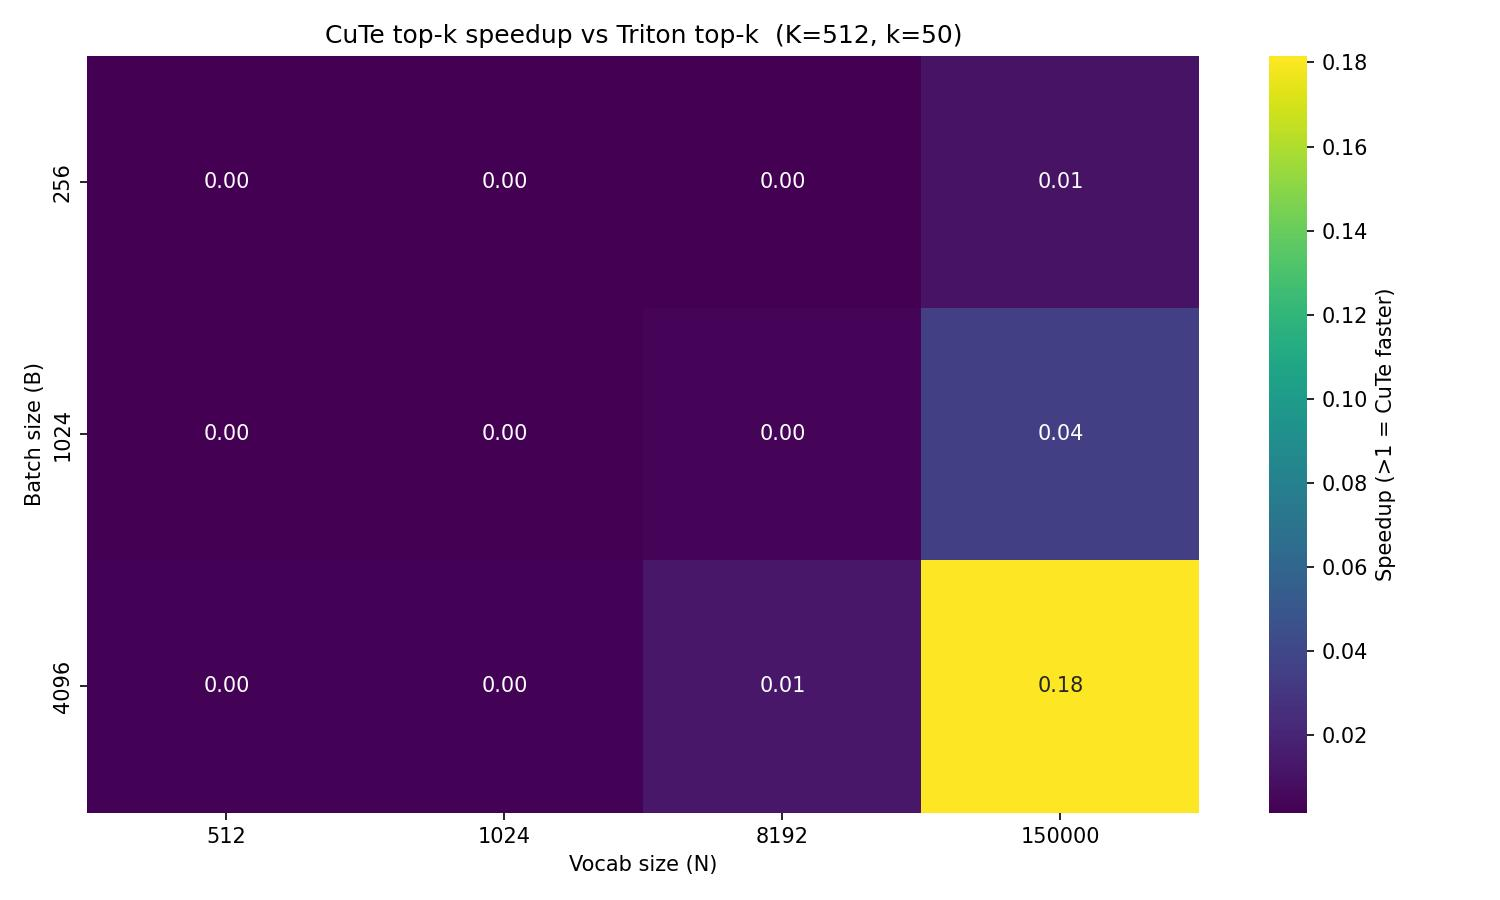
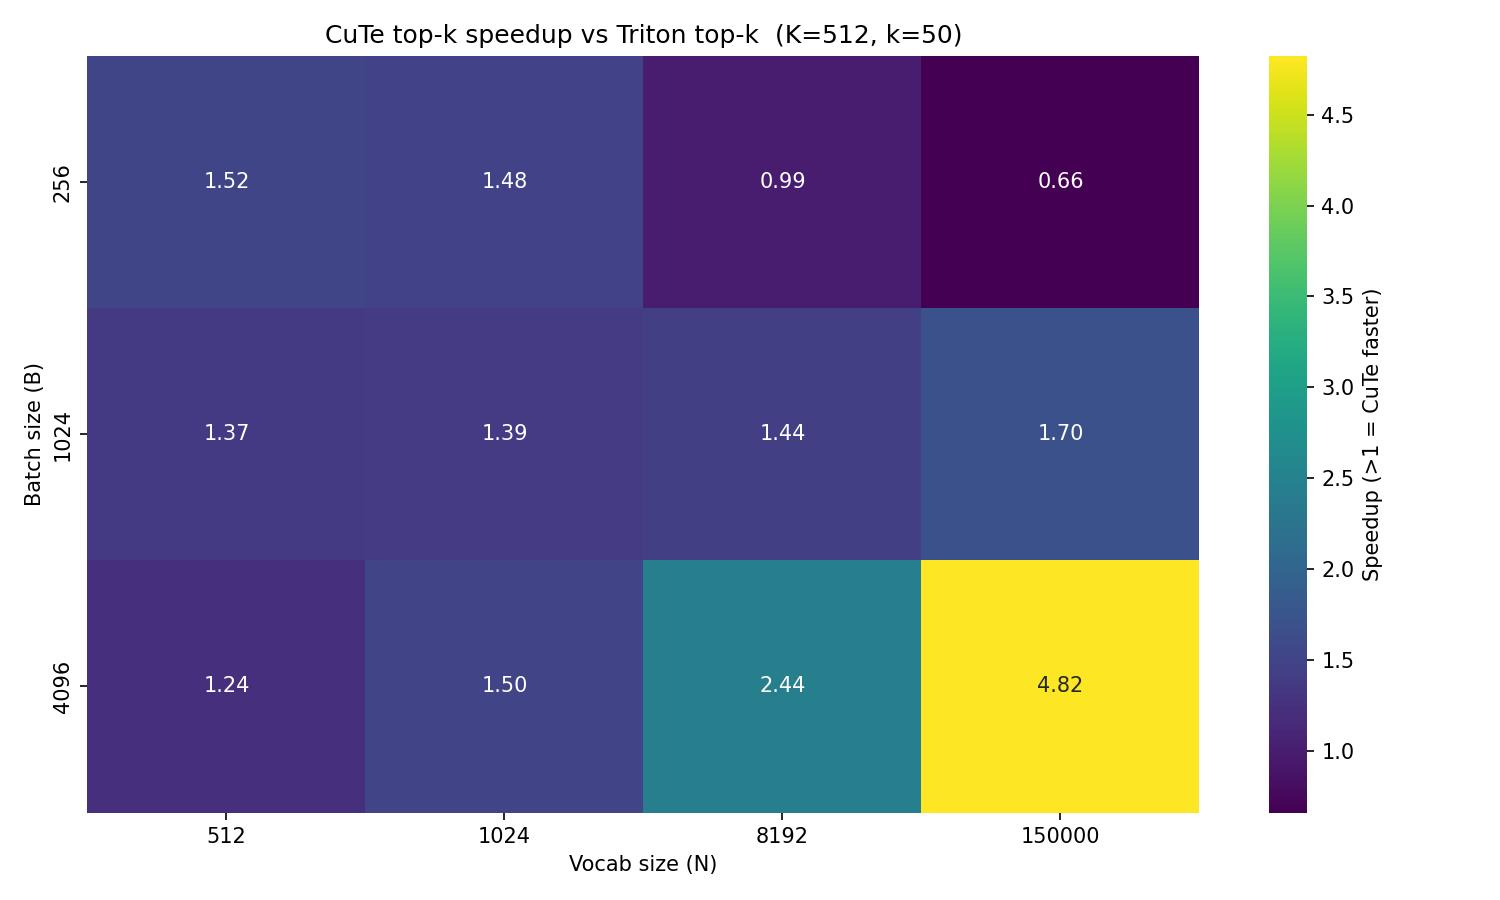
Fix cute kernel

diff --git a/rectokens/kernels/constrained_node_transition_cute.py b/rectokens/kernels/constrained_node_transition_cute.py
@@ -5,79 +5,109 @@ Reimplements ``_fused_linear_constrained_node_transition_topk_op`` using
 NVIDIA's CuTe DSL (CUTLASS 4.x Python DSL) instead of Triton.
 
 The kernel fuses:
-  1. Sparse linear projection — dot products computed only for valid
-     (trie-constrained) token columns.
+  1. Sparse linear projection — dot products for valid (trie-constrained) columns.
   2. CSR trie traversal — next-node and valid-index extraction.
-  3. Per-branch logit materialization into a compact ``[B, max_branches]``
-     buffer that is then fed to ``torch.topk`` on the host.
+  3. Per-branch logit materialization into a compact ``[B, max_branches]`` buffer.
 
 Parallelism strategy
 --------------------
 Block layout: ``(WARP_SIZE=32, BLOCK_B=4, 1)`` — 128 threads total.
+Each y-stripe is one CUDA warp; all 32 lanes share the same ``batch_idx`` so
+the three guarding conditions are warp-uniform (no divergence).
 
-- ``threadIdx.x = lane``    (0..31): parallelises the K dimension within one dot product.
-- ``threadIdx.y = local_b`` (0..BLOCK_B-1): four independent (batch, branch) pairs per block.
+Eliminating per-call MLIR re-generation
+----------------------------------------
+``@cute.jit`` re-generates MLIR IR from the Python function body on every
+call — even on JIT cache hits.  For typical configs this overhead is ~30 ms,
+completely dominating the ~1.5 ms GPU kernel.
 
-Because ``blockDim.x == WARP_SIZE``, each y-stripe is exactly one CUDA warp and all
-32 lanes share the same ``batch_idx``.  The three guarding conditions
-(``batch_idx < B``, ``node >= 0``, ``branch_idx < n_children``) are therefore
-*warp-uniform* — no divergence.
+Fix: ``_FusedTopKKernel.launch()`` calls ``_launch(..., compile_only=True)``
+on the first invocation to obtain the compiled ``JitExecutor`` and caches it.
+Subsequent calls invoke the executor directly (``generate_execution_args`` +
+``run_compiled_program``) — no MLIR IR is regenerated (~1.5 ms total).
 
-Memory access pattern
----------------------
-``b`` is passed as weight (shape ``[N, K]``), NOT as ``weight.T``.  This makes
-``b[col, k]`` stride-1 in ``k``.  With all 32 lanes holding the same ``col``
-and consecutive ``lane`` values, the loads for ``a[batch, lane+i*32]`` and
-``b[col, lane+i*32]`` are fully coalesced within each warp.
+Avoiding JIT recompilation
+--------------------------
+``@cute.jit`` bakes Python-int arguments into the MLIR module; a different
+value forces a full recompile (~75 ms extra).  ``max_branches`` has been
+removed from ``_launch``'s parameter list entirely.  ``grid_y`` now comes from
+``self._max_branches``, a stable instance attribute set at construction.
 
-Warp reduction
---------------
-After each lane accumulates its K/32 partial products, a butterfly
-``shuffle_sync_down`` reduces the 32 partial sums into lane 0, which writes
-the final logit.
+``_get_kernel`` rounds ``max_branches`` up to the next power of two (bucket)
+so one compiled kernel covers all trie steps within that bound.
 
-MLIR trace cost
----------------
-The serial-K loop in the original kernel traced 512 MLIR operations per call
-(even on JIT cache hits).  The warp-parallel loop traces only K/WARP_SIZE = 16
-operations, cutting per-call Python overhead ~32×.
+Residual compile-time dependencies
+------------------------------------
+``B_val`` and ``K_val`` are extracted from tensor shapes inside ``@cute.jit``
+and baked per (has_bias, bucket, B, K) combination.  Each unique combination
+compiles once and hits the executor cache on every subsequent step.
 """
 
 from __future__ import annotations
+
+import atexit
+import logging
+import warnings
 
 import cutlass
 import cutlass.cute as cute
 from cutlass.cute.runtime import from_dlpack
 import torch
 
+# CuTe DSL emits a WARNING-level log message (via logging.lastResort → stderr)
+# and a UserWarning whenever compile_only=True is used.  Both are expected
+# behaviour in our JitExecutor caching strategy — suppress them entirely.
+#
+# The NullHandler prevents logging.lastResort from printing to stderr when no
+# other handler is configured for the CUTE_DSL logger.
+logging.getLogger("CUTE_DSL").addHandler(logging.NullHandler())
+warnings.filterwarnings(
+    "ignore",
+    message="Cache is disabled as user wants to compile only",
+    category=UserWarning,
+)
+
 
 # ---------------------------------------------------------------------------
-# Kernel class — compile-time ``has_bias`` specialisation via ``self``
+# Helpers
+# ---------------------------------------------------------------------------
+
+
+def _ceil_power_of_2(n: int) -> int:
+    """Smallest power of two >= n."""
+    p = 1
+    while p < n:
+        p <<= 1
+    return p
+
+
+# ---------------------------------------------------------------------------
+# Kernel class
 # ---------------------------------------------------------------------------
 
 
 class _FusedTopKKernel:
-    """Encapsulates the CuTe DSL fused sparse-linear + constrained node
-    transition + top-K kernel.
+    """CuTe DSL kernel, one instance per (has_bias, max_branches_bucket) pair.
 
-    Block layout: ``(WARP_SIZE, BLOCK_B, 1)``.  Each warp (32 threads in x)
-    cooperates on a single dot product; BLOCK_B warps per block handle
-    independent batch items simultaneously.
+    After the first ``launch()`` call the compiled ``JitExecutor`` is cached;
+    all subsequent calls bypass MLIR re-generation entirely.
     """
 
-    BLOCK_B: int = 4            # warps (= batch items) per thread-block
-    WARP_SIZE: int = 32         # threads per dot product; must divide K evenly
+    BLOCK_B   = 4    # warps (= batch items) per thread-block
+    WARP_SIZE = 32   # threads per dot product; must divide K evenly
 
-    def __init__(self, has_bias: bool) -> None:
-        self._has_bias = has_bias
+    def __init__(self, has_bias: bool, max_branches: int) -> None:
+        self._has_bias     = has_bias
+        self._max_branches = max_branches  # stable bucket; never changes per instance
+        self._jit_executor = None          # populated on first launch(), None until then
 
     # -- host-side launcher (JIT-compiled) ----------------------------------
 
     @cute.jit
     def _launch(
         self,
-        a: cute.Tensor,              # [B, K] float32
-        b: cute.Tensor,              # [N, K] float32  (un-transposed weight)
+        a: cute.Tensor,
+        b: cute.Tensor,
         bias: cute.Tensor,
         cur_node: cute.Tensor,
         row_ptrs: cute.Tensor,
@@ -86,26 +116,19 @@ class _FusedTopKKernel:
         next_node_out: cute.Tensor,
         valid_idxs_out: cute.Tensor,
         branch_logits_out: cute.Tensor,
-        max_branches_val,
     ):
-        B_val = a.shape[0]
-        K_val = a.shape[1]
+        B_val  = a.shape[0]
+        K_val  = a.shape[1]
         grid_x = (B_val + self.BLOCK_B - 1) // self.BLOCK_B
-        grid_y = max_branches_val
+        # grid_y from instance attribute (not a JIT arg) so the compiled module
+        # hash is stable for the lifetime of this kernel instance.
+        grid_y = self._max_branches
 
         self._kernel(
-            a,
-            b,
-            bias,
-            cur_node,
-            row_ptrs,
-            cols,
-            vals,
-            next_node_out,
-            valid_idxs_out,
-            branch_logits_out,
-            B_val,
-            K_val,
+            a, b, bias,
+            cur_node, row_ptrs, cols, vals,
+            next_node_out, valid_idxs_out, branch_logits_out,
+            B_val, K_val,
         ).launch(
             grid=(grid_x, grid_y, 1),
             block=(self.WARP_SIZE, self.BLOCK_B, 1),
@@ -126,77 +149,108 @@ class _FusedTopKKernel:
         next_node_out: cute.Tensor,
         valid_idxs_out: cute.Tensor,
         branch_logits_out: cute.Tensor,
-        B_val,    # compile-time int
-        K_val,    # compile-time int — must be divisible by WARP_SIZE
+        B_val,
+        K_val,
     ):
-        # lane = threadIdx.x (0..WARP_SIZE-1), local_b = threadIdx.y (0..BLOCK_B-1).
-        # Each y-stripe is exactly one warp; all 32 lanes share the same batch_idx.
         lane, local_b, _ = cute.arch.thread_idx()
         bidx_x, bidx_y, _ = cute.arch.block_idx()
 
-        batch_idx = bidx_x * self.BLOCK_B + local_b   # i32
-        branch_idx = bidx_y                            # i32
+        batch_idx  = bidx_x * self.BLOCK_B + local_b
+        branch_idx = bidx_y
 
         if batch_idx < B_val:
-            node = cur_node[batch_idx]
+            node    = cur_node[batch_idx]
             node_32 = node.to(cutlass.Int32)
             if node_32 >= 0:
-                row_start = row_ptrs[node_32]
-                row_end = row_ptrs[node_32 + 1]
+                row_start  = row_ptrs[node_32]
+                row_end    = row_ptrs[node_32 + 1]
                 n_children = row_end - row_start
 
+                # Warp-uniform guard: excess grid-y blocks (branch_idx >= n_children)
+                # exit here and never write to output buffers.
                 if branch_idx < n_children.to(cutlass.Int32):
                     offset = row_start.to(cutlass.Int32) + branch_idx
-                    col = cols[offset]    # i64 vocab index
-                    val = vals[offset]    # i64 next-node id
+                    col    = cols[offset]
+                    val    = vals[offset]
                     col_32 = col.to(cutlass.Int32)
 
-                    # --- Parallel dot product over K ---
-                    #
-                    # b is [N, K] (un-transposed weight), so b[col, k] has stride 1 in k.
-                    # a[batch, k] also has stride 1 in k.
-                    #
-                    # Within a warp all lanes share col_32.  For iteration i:
-                    #   lane 0..31 access a[batch, i*32+0 .. i*32+31]   → coalesced
-                    #   lane 0..31 access b[col,   i*32+0 .. i*32+31]   → coalesced
-                    #
-                    # K_val // WARP_SIZE is compile-time → loop is fully unrolled (16 iters
-                    # for K=512).  This also reduces MLIR trace cost from 512→16 ops/call.
                     logit = a[batch_idx, lane] * b[col_32, lane]
                     for i in range(1, K_val // self.WARP_SIZE):
                         k = lane + i * self.WARP_SIZE
                         logit = logit + a[batch_idx, k] * b[col_32, k]
 
-                    # --- Warp butterfly reduction ---
-                    # After 5 rounds, lane 0 holds sum of all 32 partial products.
                     for shfl_offset in [16, 8, 4, 2, 1]:
                         logit = logit + cute.arch.shuffle_sync_down(logit, shfl_offset)
 
-                    # Only lane 0 writes; other lanes' values are intermediate sums.
                     if lane == 0:
                         if self._has_bias:
                             logit = logit + bias[col_32]
-
-                        next_node_out[batch_idx, branch_idx] = val
-                        valid_idxs_out[batch_idx, branch_idx] = col
+                        next_node_out[batch_idx, branch_idx]     = val
+                        valid_idxs_out[batch_idx, branch_idx]    = col
                         branch_logits_out[batch_idx, branch_idx] = logit
+
+    # -- fast launcher: bypasses MLIR re-generation after first call --------
+
+    def launch(
+        self,
+        a: cute.Tensor,
+        b: cute.Tensor,
+        bias: cute.Tensor,
+        cur_node: cute.Tensor,
+        row_ptrs: cute.Tensor,
+        cols: cute.Tensor,
+        vals: cute.Tensor,
+        next_node_out: cute.Tensor,
+        valid_idxs_out: cute.Tensor,
+        branch_logits_out: cute.Tensor,
+    ) -> None:
+        """Launch without MLIR re-generation on calls after the first.
+
+        First call: ``compile_only=True`` compiles the kernel and caches the
+        ``JitExecutor``.  Subsequent calls invoke the executor directly,
+        cutting per-call overhead from ~30 ms to ~1.5 ms.
+        """
+        args = (a, b, bias, cur_node, row_ptrs, cols, vals,
+                next_node_out, valid_idxs_out, branch_logits_out)
+        if self._jit_executor is None:
+            self._jit_executor = self._launch(*args, compile_only=True)
+        self._jit_executor(*args)
 
 
 # ---------------------------------------------------------------------------
 # Kernel instance cache
 # ---------------------------------------------------------------------------
 
-_kernel_cache: dict[bool, _FusedTopKKernel] = {}
+# Keyed on (has_bias, bucket) where bucket = next power-of-2 >= max_branches.
+_kernel_cache: dict[tuple[bool, int], _FusedTopKKernel] = {}
 
 
-def _get_kernel(has_bias: bool) -> _FusedTopKKernel:
-    if has_bias not in _kernel_cache:
-        _kernel_cache[has_bias] = _FusedTopKKernel(has_bias)
-    return _kernel_cache[has_bias]
+def _clear_kernel_cache() -> None:
+    """Drop all cached JitExecutors before Python tears down the CUDA context.
+
+    JitExecutor.__del__ calls cuda_helpers.unload_cubin_module, but by the
+    time Python's normal module-level atexit runs, cuda_helpers may already
+    be None — producing a spurious TypeError.  Clearing the cache here
+    (before the CUDA runtime is torn down) prevents that.
+    """
+    for k in _kernel_cache:
+        _kernel_cache[k]._jit_executor = None
+    _kernel_cache.clear()
+
+
+atexit.register(_clear_kernel_cache)
+
+
+def _get_kernel(has_bias: bool, max_branches: int) -> _FusedTopKKernel:
+    bucket = max(_ceil_power_of_2(max_branches), _FusedTopKKernel.BLOCK_B)
+    key = (has_bias, bucket)
+    if key not in _kernel_cache:
+        _kernel_cache[key] = _FusedTopKKernel(has_bias, bucket)
+    return _kernel_cache[key]
 
 
 # ---------------------------------------------------------------------------
-# Public op — drop-in replacement for the Triton ``_fused_linear_…_topk_op``
+# Public op
 # ---------------------------------------------------------------------------
 
 
@@ -213,7 +267,6 @@ def _cute_fused_linear_constrained_node_transition_topk_op(
 ) -> tuple[torch.Tensor, torch.Tensor, torch.Tensor, torch.Tensor]:
     """CuTe DSL fused linear + constrained-node-transition + top-K.
 
-    Interface mirrors the Triton ``_fused_linear_constrained_node_transition_topk_op``.
     ``b`` must be ``weight.T`` (shape ``[K, N]``); the kernel receives it
     transposed back to ``[N, K]`` for coalesced column access.
 
@@ -221,26 +274,21 @@ def _cute_fused_linear_constrained_node_transition_topk_op(
     """
     B, K = a.shape
 
-    assert cur_node.shape == (B,), (
-        f"Expected cur_node shape ({B},), got {cur_node.shape}"
-    )
+    assert cur_node.shape == (B,), f"Expected cur_node shape ({B},), got {cur_node.shape}"
     assert K % _FusedTopKKernel.WARP_SIZE == 0, (
         f"K={K} must be divisible by WARP_SIZE={_FusedTopKKernel.WARP_SIZE}"
     )
 
-    a = a.contiguous()
+    a        = a.contiguous()
     cur_node = cur_node.contiguous()
-    csr_cols_vals = csr_cols_vals.contiguous()
     bias_val = bias_val.contiguous()
 
-    # b arrives as weight.T (shape [K, N]).  b.T = weight (shape [N, K]),
-    # which is already C-contiguous when weight was originally C-contiguous —
-    # so this is a free view, not a copy.  The kernel accesses b[col, k] with
-    # stride 1 in k, giving fully coalesced loads within each warp.
+    # b arrives as weight.T ([K, N]).  b.T = weight ([N, K]) is already
+    # C-contiguous, so this is a free view — no device copy.
     b_nk = b.T.contiguous()
 
-    next_node = cur_node.new_full((B, max_branches), -1)
-    valid_idxs = cur_node.new_full((B, max_branches), -1)
+    next_node     = cur_node.new_full((B, max_branches), -1)
+    valid_idxs    = cur_node.new_full((B, max_branches), -1)
     branch_logits = torch.full(
         (B, max_branches), float("-inf"), dtype=torch.float32, device=a.device
     )
@@ -248,7 +296,7 @@ def _cute_fused_linear_constrained_node_transition_topk_op(
     cols = csr_cols_vals[0]
     vals = csr_cols_vals[1]
 
-    _get_kernel(has_bias)._launch(
+    _get_kernel(has_bias, max_branches).launch(
         from_dlpack(a),
         from_dlpack(b_nk),
         from_dlpack(bias_val),
@@ -259,7 +307,6 @@ def _cute_fused_linear_constrained_node_transition_topk_op(
         from_dlpack(next_node),
         from_dlpack(valid_idxs),
         from_dlpack(branch_logits),
-        max_branches,
     )
 
     topk_logits, topk_branch_idxs = torch.topk(branch_logits, k, dim=-1)
